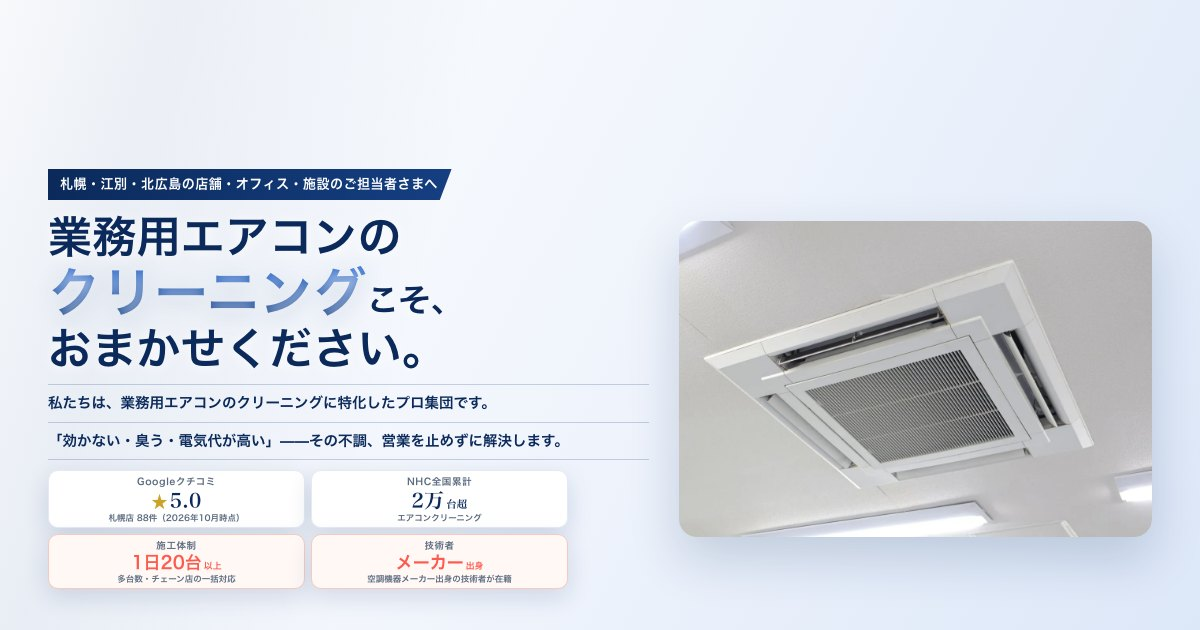
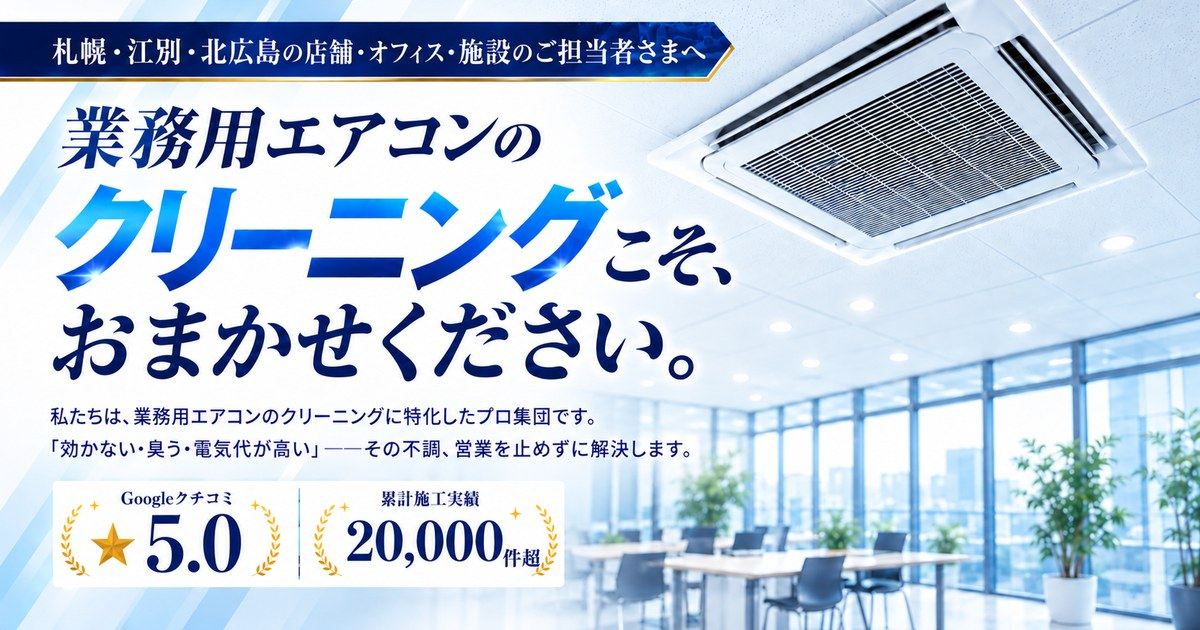
札幌 業務用エアコンLP: オーナー提供ヒーロー画像（★5.0版）に差し替え

diff --git a/sapporo-business-aircon/index.html b/sapporo-business-aircon/index.html
@@ -1,7 +1,7 @@
 <!DOCTYPE html>
 <html><head><meta charset="utf-8">
-<meta name="viewport" content="width=device-width, initial-scale=1">
 <meta name="robots" content="noindex,nofollow">
+<meta name="viewport" content="width=device-width, initial-scale=1">
 <meta name="description" content="札幌・江別・北広島の業務用エアコンクリーニング。天井カセット形4方向28,600円（税込）/台・1方向22,000円、熱交換器・ファン・ドレンパンまで分解洗浄。閉店後・定休日の施工で営業を止めません。Googleクチコミ★5.0。見積り無料、飲食店・オフィス・美容室・クリニック対応｜日本ハウスクリーニング 札幌店（NHC北海道）">
 <link rel="canonical" href="https://sapporo.n-hc.jp/business-aircon/">
 <meta property="og:type" content="website">
@@ -742,6 +742,20 @@ gtag('config','G-MLDT3DP43Q');
 .fv-sub+.fv-sub{border-bottom:1px solid rgba(21,63,130,.22)}
 .fv-photo{position:relative;z-index:1;margin:0;border-radius:18px;overflow:hidden;box-shadow:0 22px 50px rgba(11,42,91,.18);aspect-ratio:3/2}
 .fv-photo img{display:block;width:100%;height:100%;object-fit:cover}
+/* ---- FV: オーナー提供のヒーロー画像（2026-10-07）。評価・実績はHTMLバッジで表示（画像下端の旧バッジは切り落とし済み） ---- */
+.fv-hero{display:block;margin:0;line-height:0;background:#EAF2FB}
+.fv-hero img{display:block;width:100%;height:auto}
+.fv-h1-sr{position:absolute;width:1px;height:1px;overflow:hidden;clip:rect(0 0 0 0);white-space:nowrap}
+.fv-in--img{grid-template-columns:1fr;padding:18px 32px 30px}
+.fv-in--img .fv-awards{max-width:720px;margin:0 auto;grid-template-columns:repeat(2,minmax(0,1fr))}
+.fv-note{max-width:900px;margin:10px auto 0;font-size:11px;color:var(--sub);line-height:1.6;text-align:center}
+.fv-sub--sp{display:none}
+@media (max-width:640px){
+  .fv-in--img{padding:14px 20px 22px}
+  .fv-in--img .fv-awards{grid-template-columns:repeat(2,minmax(0,1fr))}
+  .fv-sub--sp{display:block}
+}
+
 .fv-awards{position:relative;z-index:3;display:grid;grid-template-columns:repeat(2,minmax(0,1fr));gap:8px;margin-top:18px;max-width:560px}
 .fv-award{background:rgba(255,255,255,.96);border:1px solid #E3EAF4;border-radius:10px;padding:8px 14px 7px;text-align:center;box-shadow:0 8px 24px rgba(11,42,91,.14);min-width:0;line-height:1.2}
 .fv-award.is-strength{border-color:#F6C9C3;background:#FFF8F5}
@@ -768,25 +782,24 @@ gtag('config','G-MLDT3DP43Q');
   .fv-award b{font-size:20px}
 }
 </style>
-<section class="fv" aria-label="札幌の業務用エアコンクリーニング">
-  <div class="fv-in">
+<section class="fv fv--img" aria-label="札幌の業務用エアコンクリーニング">
+  <picture class="fv-hero">
+    <source media="(max-width:640px)" srcset="assets/hero-sp.webp">
+    <img src="assets/hero-pc.webp" alt="札幌・江別・北広島の店舗・オフィス・施設のご担当者さまへ——業務用エアコンのクリーニングこそ、おまかせください。私たちは、業務用エアコンのクリーニングに特化したプロ集団です。「効かない・臭う・電気代が高い」その不調、営業を止めずに解決します。" width="1672" height="941" fetchpriority="high">
+  </picture>
+  <h1 class="fv-h1-sr">札幌の業務用エアコンクリーニング｜業務用エアコンのクリーニングこそ、おまかせください。</h1>
+  <div class="fv-in fv-in--img">
     <div class="fv-text">
-      <span class="fv-badge">札幌・江別・北広島の店舗・オフィス・施設のご担当者さまへ</span>
-      <h1>業務用エアコンの<br><span class="fv-nowrap"><span class="fv-blue">クリーニング</span><span class="fv-small">こそ、</span></span><br>おまかせください。</h1>
-      <p class="fv-sub">私たちは、業務用エアコンのクリーニングに特化したプロ集団です。</p>
-      <p class="fv-sub">「効かない・臭う・電気代が高い」——<span style="white-space:nowrap;">その不調、営業を止めずに解決します。</span></p>
+      <p class="fv-sub fv-sub--sp">私たちは、業務用エアコンのクリーニングに特化したプロ集団です。</p>
+      <p class="fv-sub fv-sub--sp">「効かない・臭う・電気代が高い」——<span style="white-space:nowrap;">その不調、営業を止めずに解決します。</span></p>
       <div class="fv-awards" aria-label="実績と施工体制">
-        <div class="fv-award"><small>Googleクチコミ</small><b><span class="st">★</span>5.0</b><span class="cnt">札幌店 88件（2026年10月時点）</span></div>
-        <div class="fv-award"><small>NHC全国累計</small><b>2万<span class="sm">台超</span></b><span class="cnt">エアコンクリーニング</span></div>
         <!-- 【要確認】ここから：FVの強みバッジ2点（1日20台体制／メーカー出身技術者。事実確認NGなら各 fv-award ごと削除） -->
         <div class="fv-award is-strength"><small>施工体制</small><b>1日20台<span class="sm">以上</span></b><span class="cnt">多台数・チェーン店の一括対応</span></div>
         <div class="fv-award is-strength"><small>技術者</small><b>メーカー<span class="sm">出身</span></b><span class="cnt">空調機器メーカー出身の技術者が在籍</span></div>
         <!-- 【要確認】ここまで -->
       </div>
+      <p class="fv-note">※Googleクチコミ ★5.0は日本ハウスクリーニング札幌店（88件・2026年10月時点）、累計施工実績 20,000件超はNHC全国のエアコンクリーニング実績です。</p>
     </div>
-    <figure class="fv-photo">
-      <img src="assets/img24.webp" alt="天井カセット形（4方向）の業務用エアコン" width="1200" height="800" fetchpriority="high">
-    </figure>
   </div>
 </section>
 
